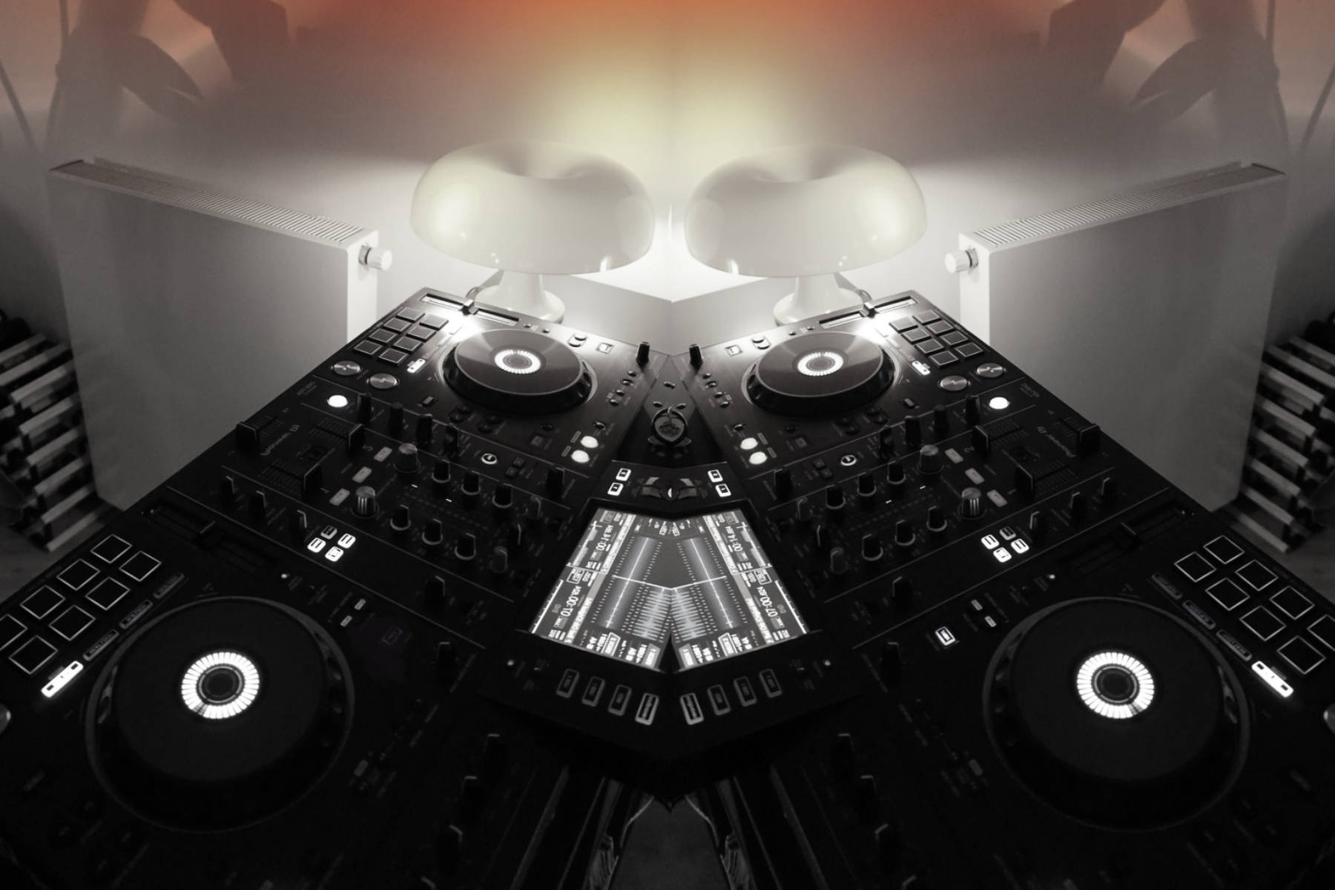
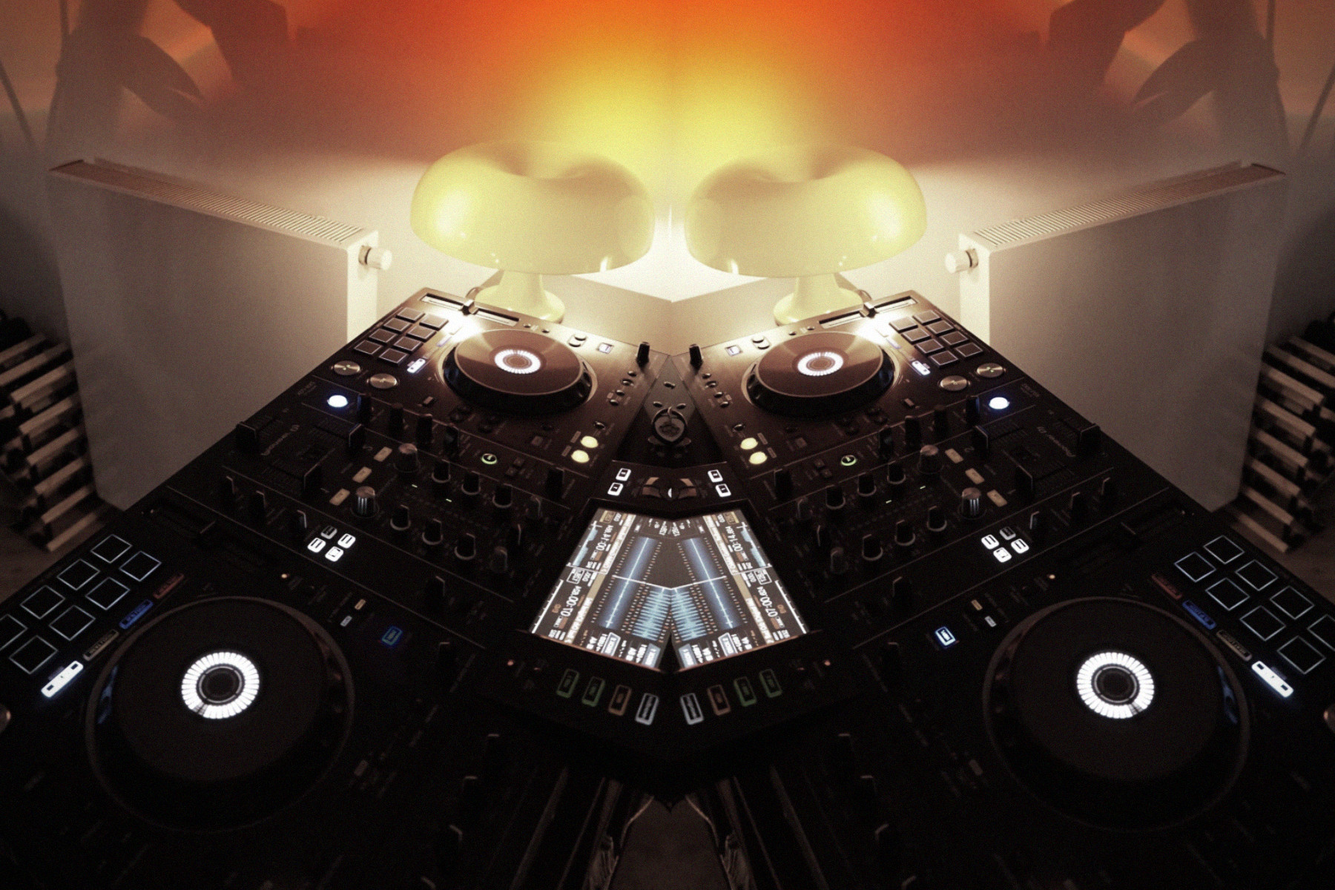
final fixs

diff --git a/boreal/styles-base.css b/boreal/styles-base.css
@@ -35,15 +35,6 @@ html, body {
   z-index: 200;
 }
 
-/* ── vignette ── */
-body::after {
-  content: '';
-  position: fixed;
-  inset: 0;
-  background: radial-gradient(ellipse at center, transparent 50%, rgba(0,0,0,0.6) 100%);
-  pointer-events: none;
-  z-index: 10;
-}
 
 /* ── skip to content link ── */
 .skip-link {

diff --git a/boreal/01/styles.css b/boreal/01/styles.css
@@ -229,8 +229,8 @@
 .hero-gradient-bottom {
   position: absolute;
   bottom: 0; left: 0; right: 0;
-  height: 560px;
-  background: linear-gradient(transparent, var(--bg));
+  height: 70%;
+  background: linear-gradient(rgba(13,13,13,0), var(--bg));
   pointer-events: none;
   z-index: 20;
 }
